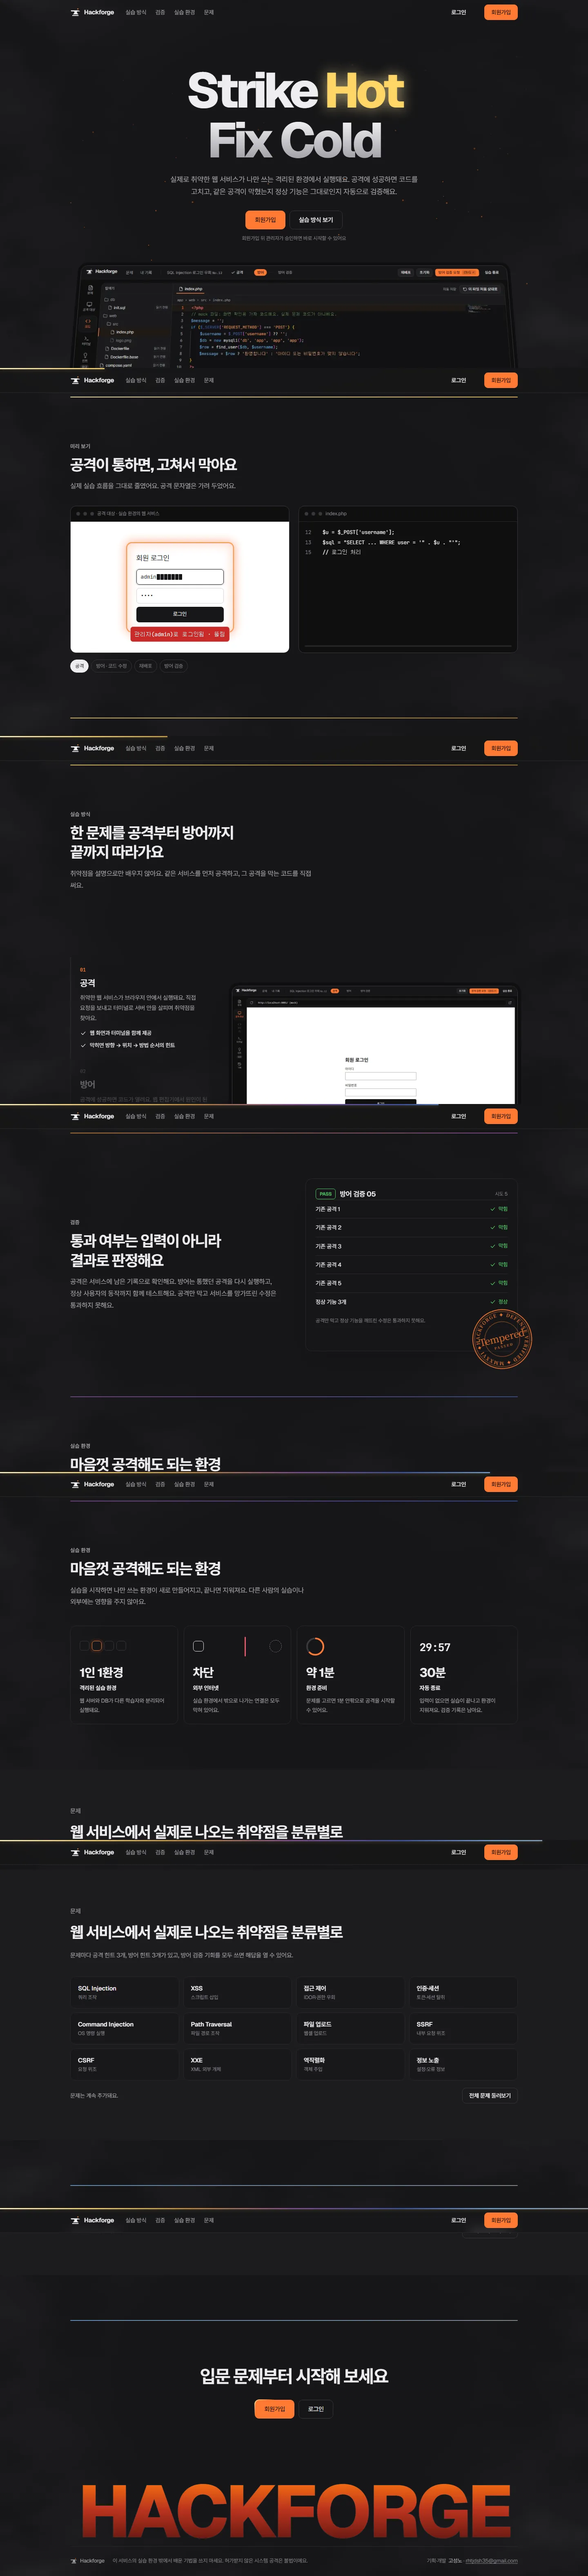
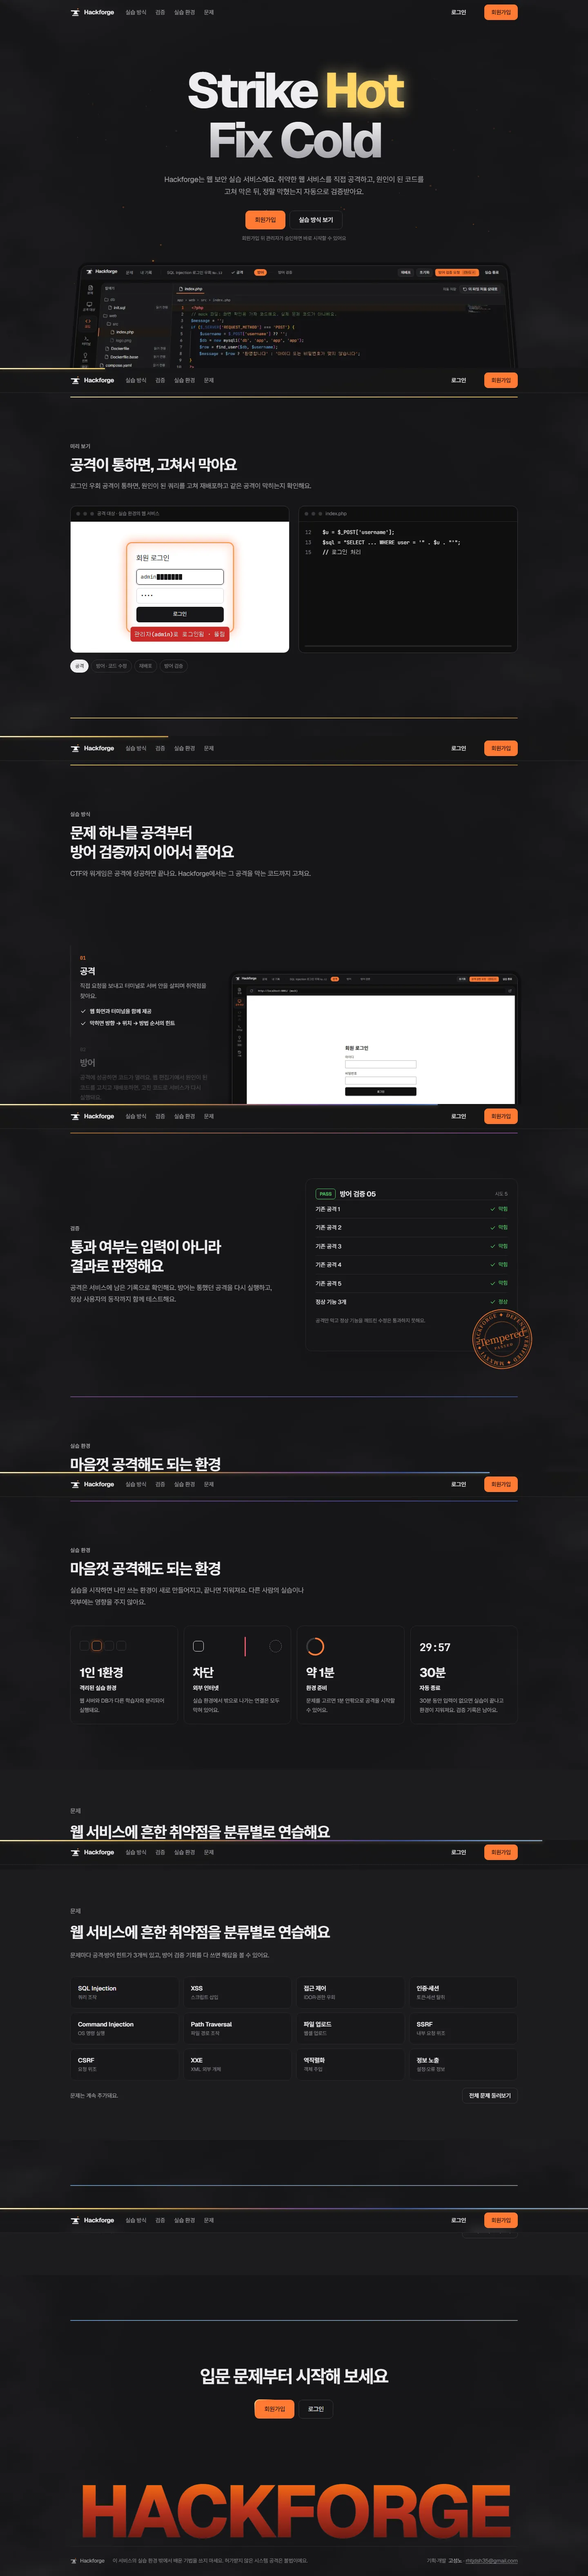
feat: 소개 화면 문구를 서비스 소개 위주로 다시 씀
화면 설명뿐이던 문장과 판정 카드 아래 문장과 겹치던 설명을 뺐다.

diff --git a/src/pages/landing-page.tsx b/src/pages/landing-page.tsx
@@ -61,7 +61,7 @@ const STEPS = [
   {
     n: '01',
     title: '공격',
-    text: '취약한 웹 서비스가 브라우저 안에서 실행돼요. 직접 요청을 보내고 터미널로 서버 안을 살피며 취약점을 찾아요.',
+    text: '직접 요청을 보내고 터미널로 서버 안을 살피며 취약점을 찾아요.',
     points: ['웹 화면과 터미널을 함께 제공', '막히면 방향 → 위치 → 방법 순서의 힌트'],
     screen: 'target',
     caption: '공격 대상 화면',
@@ -69,7 +69,7 @@ const STEPS = [
   {
     n: '02',
     title: '방어',
-    text: '공격에 성공하면 코드가 열려요. 웹 편집기에서 원인이 된 코드를 고치고 재배포하면 고친 서비스가 다시 떠요.',
+    text: '공격에 성공하면 코드가 열려요. 웹 편집기에서 원인이 된 코드를 고치고 재배포하면, 고친 코드로 서비스가 다시 실행돼요.',
     points: ['편집 내용 자동 저장', '재배포, 언제든 처음 상태로 초기화'],
     screen: 'code',
     caption: '코드 편집기',
@@ -199,8 +199,8 @@ export function LandingPage() {
             </span>
           </h1>
           <p className="lead">
-            실제로 취약한 웹 서비스가 나만 쓰는 격리된 환경에서 실행돼요. 공격에 성공하면 코드를
-            고치고, 같은 공격이 막혔는지 정상 기능은 그대로인지 자동으로 검증해요.
+            Hackforge는 웹 보안 실습 서비스예요. 취약한 웹 서비스를 직접 공격하고, 원인이 된 코드를
+            고쳐 막은 뒤, 정말 막혔는지 자동으로 검증받아요.
           </p>
           <div className="cta">
             <Link to="/signup" className="btn p lg">
@@ -222,7 +222,10 @@ export function LandingPage() {
         <div className="rv">
           <div className="k">미리 보기</div>
           <h2 id="demo-title">공격이 통하면, 고쳐서 막아요</h2>
-          <p className="d">실제 실습 흐름을 그대로 줄였어요. 공격 문자열은 가려 두었어요.</p>
+          <p className="d">
+            로그인 우회 공격이 통하면, 원인이 된 쿼리를 고쳐 재배포하고 같은 공격이 막히는지
+            확인해요.
+          </p>
         </div>
         <div className="re">
           <div className="win">
@@ -293,13 +296,12 @@ export function LandingPage() {
         <div className="w rv">
           <div className="k">실습 방식</div>
           <h2 id="how-title">
-            한 문제를 공격부터 방어까지
+            문제 하나를 공격부터
             <br />
-            끝까지 따라가요
+            방어 검증까지 이어서 풀어요
           </h2>
           <p className="d">
-            취약점을 설명으로만 배우지 않아요. 같은 서비스를 먼저 공격하고, 그 공격을 막는 코드를
-            직접 써요.
+            CTF와 워게임은 공격에 성공하면 끝나요. Hackforge에서는 그 공격을 막는 코드까지 고쳐요.
           </p>
         </div>
         {/* 넓은 화면은 이 구간에서 화면을 고정하고, 스크롤에 따라 단계와 오른쪽 화면이 바뀐다 */}
@@ -350,8 +352,7 @@ export function LandingPage() {
             </h2>
             <p className="d">
               공격은 서비스에 남은 기록으로 확인해요. 방어는 통했던 공격을 다시 실행하고, 정상
-              사용자의 동작까지 함께 테스트해요. 공격만 막고 서비스를 망가뜨린 수정은 통과하지
-              못해요.
+              사용자의 동작까지 함께 테스트해요.
             </p>
           </div>
           <div className="rv" style={delay(0.12)}>
@@ -441,7 +442,7 @@ export function LandingPage() {
               분
             </b>
             <span>자동 종료</span>
-            <p>입력이 없으면 실습이 끝나고 환경이 지워져요. 검증 기록은 남아요.</p>
+            <p>30분 동안 입력이 없으면 실습이 끝나고 환경이 지워져요. 검증 기록은 남아요.</p>
           </div>
         </div>
       </section>
@@ -451,11 +452,10 @@ export function LandingPage() {
           <div className="rv">
             <div className="k">문제</div>
             <h2 id="problems-title" className="h2d">
-              웹 서비스에서 실제로 나오는 취약점을 분류별로
+              웹 서비스에 흔한 취약점을 분류별로 연습해요
             </h2>
             <p className="d">
-              문제마다 공격 힌트 3개, 방어 힌트 3개가 있고, 방어 검증 기회를 모두 쓰면 해답을 열 수
-              있어요.
+              문제마다 공격·방어 힌트가 3개씩 있고, 방어 검증 기회를 다 쓰면 해답을 볼 수 있어요.
             </p>
           </div>
           <ul className="cats" id="cats" aria-label="취약점 분류">

diff --git a/src/pages/landing-page.test.tsx b/src/pages/landing-page.test.tsx
@@ -12,10 +12,10 @@ describe('소개 화면', () => {
     expect(await screen.findByRole('heading', { level: 1, name: /Strike Hot/ })).toBeInTheDocument()
     expect(screen.getAllByRole('heading', { level: 2 }).map((h) => h.textContent)).toEqual([
       '공격이 통하면, 고쳐서 막아요',
-      '한 문제를 공격부터 방어까지끝까지 따라가요',
+      '문제 하나를 공격부터방어 검증까지 이어서 풀어요',
       '통과 여부는 입력이 아니라결과로 판정해요',
       '마음껏 공격해도 되는 환경',
-      '웹 서비스에서 실제로 나오는 취약점을 분류별로',
+      '웹 서비스에 흔한 취약점을 분류별로 연습해요',
       '입문 문제부터 시작해 보세요',
     ])
     for (const link of screen.getAllByRole('link', { name: '회원가입' }))
